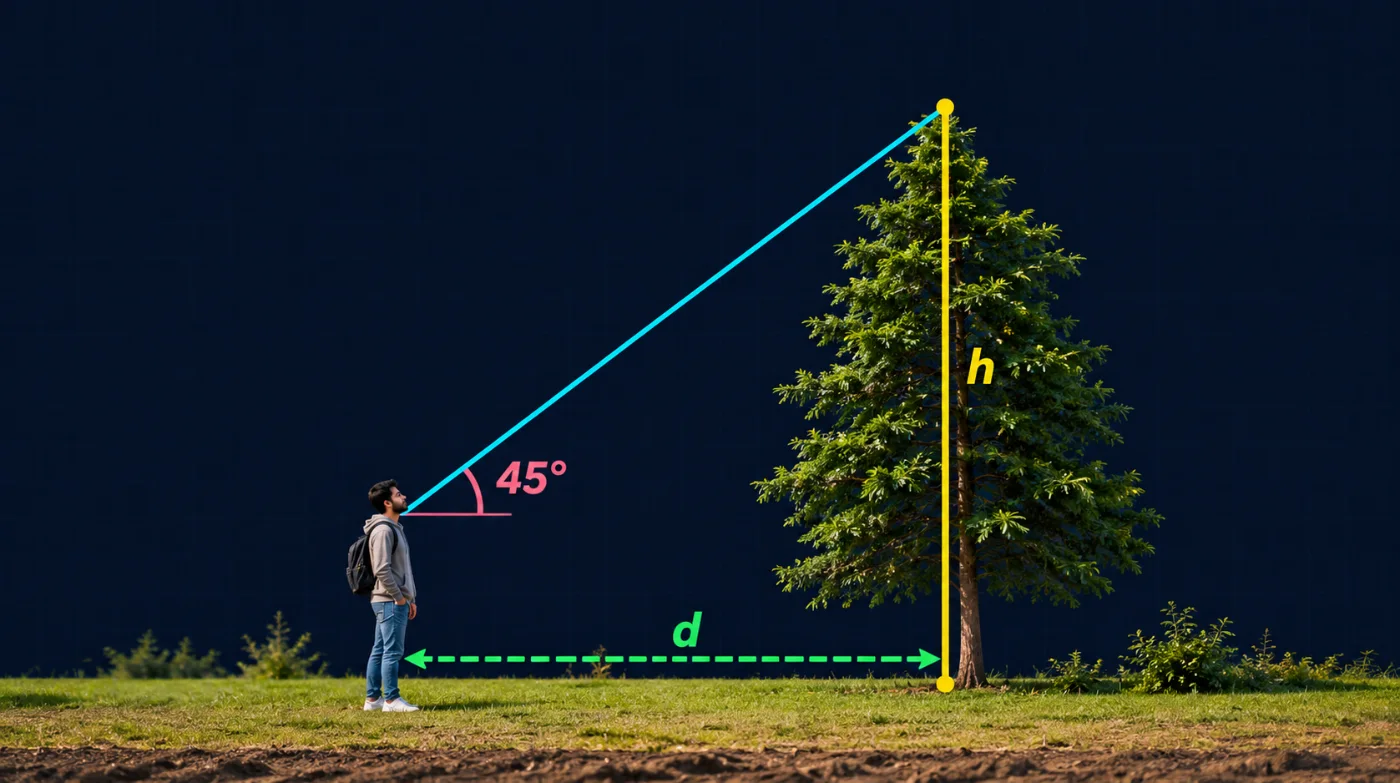
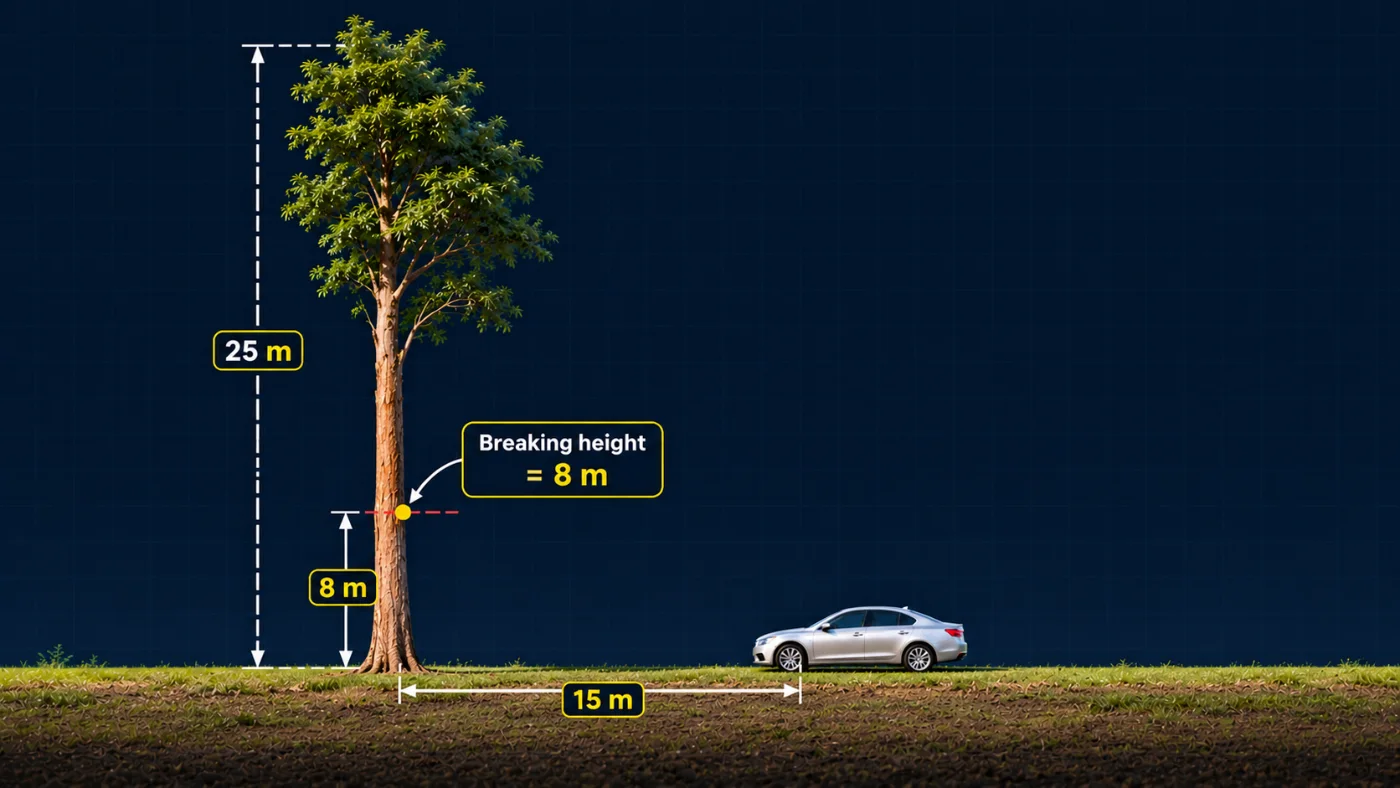
image added

diff --git a/src/content/imageManifest.ts b/src/content/imageManifest.ts
@@ -8,7 +8,7 @@ import type { SlideImage } from '../components/smartboard/imageStore'
 export const IMAGE_MANIFEST: Record<string, SlideImage> = {
   "height-and-distance:s0": {"src":"/decks/height-and-distance__s0.webp","leftPct":9.451924472551168,"topPct":12.581963671257476,"widthPct":74.631676761987,"heightPct":23.19731025256102,"ratioLocked":false,"cropX":50,"cropY":50,"cropZoom":1,"cropped":false},
   "height-and-distance:s1": {"src":"/decks/height-and-distance__s1.webp","leftPct":8.642384163224872,"topPct":12.750455709595885,"widthPct":76.25072649865632,"heightPct":23.108905209735575,"ratioLocked":false,"cropX":50,"cropY":50,"cropZoom":1,"cropped":false},
-  "height-and-distance:s3": {"src":"/decks/height-and-distance__s3.webp","leftPct":9.047154317888017,"topPct":12.80965127217825,"widthPct":76.25080370361448,"heightPct":22.905952667713652,"ratioLocked":false,"cropX":50,"cropY":50,"cropZoom":1,"cropped":false},
+  "height-and-distance:s3": {"src":"/decks/height-and-distance__s3.webp","leftPct":8.844769240556444,"topPct":13.151182673559411,"widthPct":76.25080370361448,"heightPct":22.905952667713652,"ratioLocked":false,"cropX":50,"cropY":50,"cropZoom":1,"cropped":false},
   "inclined-plane:s0": {"src":"/decks/inclined-plane__s0.webp","leftPct":10.700574171583707,"topPct":12.94996303838343,"widthPct":71.50076902867026,"heightPct":21.526733614616717,"ratioLocked":false,"cropX":50,"cropY":50,"cropZoom":1,"cropped":false},
   "inclined-plane:s1": {"src":"/decks/inclined-plane__s1.webp","leftPct":10.162500410513525,"topPct":12.849070987240008,"widthPct":74.01174342357332,"heightPct":21.77982013105854,"ratioLocked":false,"cropX":50,"cropY":50,"cropZoom":1,"cropped":false},
   "inclined-plane:s2": {"src":"/decks/inclined-plane__s2.webp","leftPct":10.5212071287042,"topPct":15.875709367468357,"widthPct":72.93560958521714,"heightPct":21.294690592179037,"ratioLocked":false,"cropX":50,"cropY":50,"cropZoom":1,"cropped":false},
